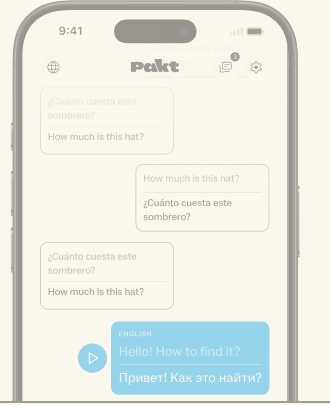
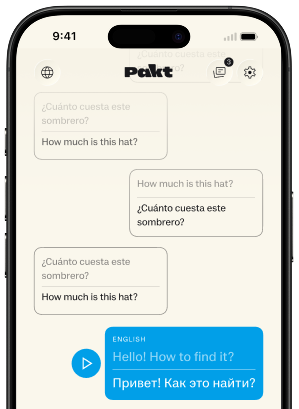
Replace flow phone assets

diff --git a/pakt/component-parity/index.html b/pakt/component-parity/index.html
@@ -345,7 +345,7 @@
           <h3>Speak</h3>
           <p>Free to try with 3 translations. Pick a pack when you&#x27;re ready.</p>
         </div>
-        <img class="flow-phone-image" src="/images/pakt-flow-phone-speak-tall.png" alt="" width="142" height="170" loading="lazy" decoding="async">
+        <img class="flow-phone-image" src="/images/pakt-flow-phone-speak-tall.png" alt="" width="299" height="409" loading="lazy" decoding="async">
       </article>
 
       <article class="flow-card" aria-selected="false">
@@ -353,7 +353,7 @@
           <h3>Translate</h3>
           <p>Free to try with 3 translations. Pick a pack when you&#x27;re ready.</p>
         </div>
-        <img class="flow-phone-image" src="/images/pakt-flow-phone-speak-tall.png" alt="" width="142" height="170" loading="lazy" decoding="async">
+        <img class="flow-phone-image" src="/images/pakt-flow-phone-speak-tall.png" alt="" width="299" height="409" loading="lazy" decoding="async">
       </article>
 
       <article class="flow-card" aria-selected="false">
@@ -361,7 +361,7 @@
           <h3>Hear</h3>
           <p>Free to try with 3 translations. Pick a pack when you&#x27;re ready.</p>
         </div>
-        <img class="flow-phone-image" src="/images/pakt-flow-phone-speak-tall.png" alt="" width="142" height="170" loading="lazy" decoding="async">
+        <img class="flow-phone-image" src="/images/pakt-flow-phone-speak-tall.png" alt="" width="299" height="409" loading="lazy" decoding="async">
       </article>
     </div>
   </div>

diff --git a/pakt/component-showcase/index.html b/pakt/component-showcase/index.html
@@ -345,7 +345,7 @@
           <h3>Speak</h3>
           <p>Listen to natural voice playback.</p>
         </div>
-        <img class="flow-phone-image" src="/images/pakt-flow-phone-speak-tall.png" alt="" width="142" height="170" loading="lazy" decoding="async">
+        <img class="flow-phone-image" src="/images/pakt-flow-phone-speak-tall.png" alt="" width="299" height="409" loading="lazy" decoding="async">
       </article>
 
       <article class="flow-card" aria-selected="false">
@@ -353,7 +353,7 @@
           <h3>Translate</h3>
           <p>Read the phrase clearly on screen.</p>
         </div>
-        <img class="flow-phone-image" src="/images/pakt-flow-phone-speak-tall.png" alt="" width="142" height="170" loading="lazy" decoding="async">
+        <img class="flow-phone-image" src="/images/pakt-flow-phone-speak-tall.png" alt="" width="299" height="409" loading="lazy" decoding="async">
       </article>
 
       <article class="flow-card" aria-selected="false">
@@ -361,7 +361,7 @@
           <h3>Hear</h3>
           <p>Play it aloud when pronunciation matters.</p>
         </div>
-        <img class="flow-phone-image" src="/images/pakt-flow-phone-speak-tall.png" alt="" width="142" height="170" loading="lazy" decoding="async">
+        <img class="flow-phone-image" src="/images/pakt-flow-phone-speak-tall.png" alt="" width="299" height="409" loading="lazy" decoding="async">
       </article>
     </div>
   </div>

diff --git a/pakt/offline-translator-app/index.html b/pakt/offline-translator-app/index.html
@@ -297,7 +297,7 @@
           <h3>Speak</h3>
           <p>Listen to natural voice playback.</p>
         </div>
-        <img class="flow-phone-image" src="/images/pakt-flow-phone-speak-tall.png" alt="" width="142" height="170" loading="lazy" decoding="async">
+        <img class="flow-phone-image" src="/images/pakt-flow-phone-speak-tall.png" alt="" width="299" height="409" loading="lazy" decoding="async">
       </article>
 
       <article class="flow-card" aria-selected="false">
@@ -305,7 +305,7 @@
           <h3>Translate</h3>
           <p>Read the phrase clearly on screen.</p>
         </div>
-        <img class="flow-phone-image" src="/images/pakt-flow-phone-speak-tall.png" alt="" width="142" height="170" loading="lazy" decoding="async">
+        <img class="flow-phone-image" src="/images/pakt-flow-phone-speak-tall.png" alt="" width="299" height="409" loading="lazy" decoding="async">
       </article>
 
       <article class="flow-card" aria-selected="false">
@@ -313,7 +313,7 @@
           <h3>Hear</h3>
           <p>Play it aloud when pronunciation matters.</p>
         </div>
-        <img class="flow-phone-image" src="/images/pakt-flow-phone-speak-tall.png" alt="" width="142" height="170" loading="lazy" decoding="async">
+        <img class="flow-phone-image" src="/images/pakt-flow-phone-speak-tall.png" alt="" width="299" height="409" loading="lazy" decoding="async">
       </article>
     </div>
   </div>

diff --git a/css/pakt-stage2.css b/css/pakt-stage2.css
@@ -5153,6 +5153,12 @@ body:not(.page-component-parity) #app-flow .flow-card.is-active .flow-phone-imag
 }
 
 @media (max-width: 760px) {
+  body:not(.page-component-parity) #app-flow .flow-phone-image {
+    right: 20px;
+    bottom: -36px;
+    width: 142px;
+  }
+
   body:not(.page-component-parity) #app-flow .flow-card:nth-child(2) .flow-phone-image {
     content: url("/images/pakt-flow-phone-translate-desktop-public.png");
   }
